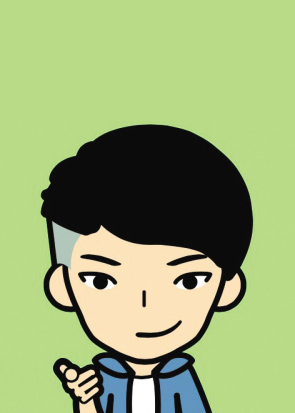
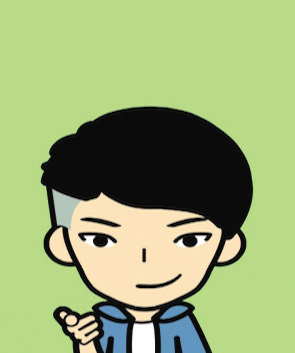
home

diff --git a/PositivePersons/Project/awesomeResume/free/free_resume.html b/PositivePersons/Project/awesomeResume/free/free_resume.html
@@ -17,19 +17,26 @@
         <!-- 可以通过调整base.css中的#base-info的width来使顶部居中，例如60% -->
         <div id="base-info">
           <!-- 头像 -->
-          <img id="avatar" alt="avatar" src="imgs/avatar.jpg"/>
+          <img id="avatar" alt="avatar" src="imgs/avatar.png"/>
           <!-- 其他基础信息 -->
           <div id="base-info-span">
-            <b id="name">杨勇</b>
+            <b id="name">朱亚男</b>
             <hr>
             <span>
               <!-- 可以从font-awesome网站(https://fontawesome.com/icons)中搜索所需图标，
               直接替换<i>标签class内内容即可 -->
+                
               <h5>
-                  <i class="fas fa-envelope"></i> contact@jobder.net | 
-                  <i class="fas fa-phone"></i> 133-5555-6666 | 政治面貌：群众</h5>
+                  求职意向: iOS 高级开发工程师
+              </h5>
               <h5>
-                  <i class="fab fa-github"></i> github.com/Windsooon | 求职意向: 爬虫工程师</h5>
+                  <i class="fas fa-envelope"></i> ynzhuw@gmail.com | 
+                  <i class="fas fa-phone"></i> 187-0162-9187
+              </h5>
+              <h5>
+                  <i class="fab fa-github"></i> <a href="https://github.com/YAANNZ" style="color:black">github.com/YAANNZ</a> | 
+                  <i class="fab fa-blogger"></i> <a href="http://zynlo.xyz" style="color:black">zynlo.xyz</a>
+              </h5>
             </span>
           </div> <!-- end base-info-span -->
         </div> <!-- end base-info -->
@@ -45,7 +52,7 @@
           </span>
         </div> <!-- end banner-div -->
         <!-- 个人简介可替换部分 -->
-        <p>两年 Python 爬虫系统开发经验，熟悉 <b>Scrapy框架</b>，作为主力工程师参与设计与开发过多个项目，负责系统核心模块的开发，自动化测试与部署。<b>熟悉 HTTP 协议、TCP/IP 协议，正则表达式，XPATH</b> 的用法，了解 <b>Redis，MySQL 数据库</b>与 Linux 系统的常见机制与原理。有优秀的学习能力和团队沟通能力，经常与团队进行技术分享，能与团队共同成长。</p>
+        <p>四年 iOS 开发经验，作为主力工程师参与设计并开发过多个项目，负责项目<b>架构设计、核心模块的开发、持续集成、自动化部署、App Store上架、Crash收集</b>等任务。浅显的理解<b>内存管理、runtime、多线程、HTTP、TCP/IP</b>的原理及在 iOS 开发中的使用。有<b>移动 OA、内容分享、移动 BI、视频直播</b>等类型产品的开发经验，有基于 <b>Cordova、AppCan</b>的混合开发经验。热爱开源，曾为开源框架 <b>MJExtension</b> 贡献过代码。有优秀的学习能力和团队沟通能力，经常与团队进行技术分享，能与团队共同成长。</p>
       </div> <!-- end summary -->
       <!-- 
           技能列表部分
@@ -59,16 +66,16 @@
         <!-- 技能列表可替换部分 &nbsp;用来控制格式-->
         <ul>
             <li>
-              <b>后端框架:</b> Scrapy, Flask &nbsp;&nbsp;
-              <b>前端框架:</b> Vue, React, jQuery
+              <b>熟练:</b> Objective-C, Swift &nbsp;&nbsp;&nbsp;&nbsp;
+              <b>熟悉:</b> Node.js, JavaScript/HTML/CSS, Python, Shell
             </li>
             <li>
-              <b>数据库:</b> Redis, MySQL &nbsp;&nbsp;
-              <b>工具:</b> Docker, Jenkins, Git
+              <b>框架:</b> Cordova, AppCan, Express, EJS &nbsp;&nbsp;&nbsp;&nbsp;
+              <b>数据库:</b> SQLite, MongoDB
             </li>
             <li>
-              <b>其他:</b> XPATH, AsyncIO  &nbsp;&nbsp;
-              <b>外语:</b> 大学英语四级，能流畅阅读英文文档
+              <b>工具:</b> Git, SVN  &nbsp;&nbsp;&nbsp;&nbsp;
+              <b>外语:</b> CET-4，能流畅阅读英文文档
             </li>
         </ul>
       </div> <!-- end skills -->
@@ -82,33 +89,66 @@
           </span>
         </div>
         <!-- 第一份工作的介绍 -->
-        <b>独角科技有限公司（旗下产品 EngineGo, Thankyou-opensource）</b>
-        <p>2014年6月-2016年6月 | 高级 Python 工程师</p>
+        <b>北京兴竹同伴信息技术股份有限公司</b>
+        <p>2015年12月-至今 | 高级 iOS 开发工程师</p>
         <ul>
-          <li>作为组长负责设计和开发<b>分布式网络爬虫系统</b>，优化爬虫策略和防屏蔽规则，提升网页抓取的效率和质量。</li>
-          <li>根据行业需求分析设计方案可行性，对项目代码进行测试优化，<b>协助持续集成与自动化部署</b>，提高系统可用性。</li>
-          <li>负责公司技术文档的编写以及维护，定期 review 团队的代码，与团队共同学习以及成长。</li>
+          <li>作为主程参与<b>项目需求讨论、开发规范制定、以及架构设计和核心模块</b>的开发。</li>
+          <li>负责解决项目开发难点，疑难 bug 处理，对项目代码进行规范优化，<b>持续集成与自动化部署</b>，提高测试和发布效率。</li>
+          <li>负责公司<b>技术开发文档的编写以及维护</b>，定期 review 团队的代码，与团队共同学习成长。</li>
         </ul>
-        <!-- 第一个项目的介绍，多个项目可以复制project-span区块-->
+        <!-- 第一个项目的介绍-->
         <span class="project-span">
-          <b>EngineGo 爬虫系统</b>
+          <b>同伴</b>
           <ul>
-            <li>与产品经理保持沟通，使用 <b>Scrapy框架</b> 对爬虫模块进行重构，提高 <b>200%爬虫速度 </b>并减少服务器 <b>20%CPU</b> 负载。改进爬虫策略，降低 <b>40%</b> 被屏蔽的请求数。</li>
-            <li>作为主要工程师设计以及开发<b>物业模块，活动模块，实现报名，即时通知</b>等 10 个功能。</li>
-            <li>使用 <b>Docker</b> 对项目进行拆分重新架构, 减少业务模块之间的资源耦合, 实现<b>持续集成与自动化部署</b>。</li>
+            <li>一款<b>移动 OA </b>产品，累计拥有过万用户量，基于 Cordova 的混合开发方式，主要有移动考勤、审批、工时、邮箱、即时通讯、微应用等模块。</li>
+            <li>使用 <b>MVC</b> 架构方式开发项目，同时以<b>自定义分类和自定义继承于NSObject的工具类</b>的方式来减轻 C 的压力，提高 <b>代码的可读性和规范性 </b>以便于扩展和维护。</li>
+            <li>作为主要工程师设计以及开发<b>移动考勤模块，企业创建管理模块，通讯录模块</b>等功能。</li>
+            <li>使用 <b>FMDB 设计数据持久化</b>方案，同时利用 <b>node.js、python、shell</b> 实现项目的<b>持续集成与自动化部署</b>，提高测试和发布效率。</li>
+          </ul> 
+        </span> <!-- end project-span -->
+        <!-- 第二个项目的介绍-->
+        <span class="project-span">
+          <b>工程管理</b>
+          <ul>
+            <li>一款中电基建部门下属全国各地<b>基建工程管理人员</b>使用的移动端产品，基于 Cordova 的混合开发方式。</li>
+            <li>参与项目需求讨论，对项目需求进行可行性调研，使用 <b>MVC</b> 的架构模式。</li>
+            <li>单独负责项目的开发，实现了基于 <b>CocoaHttpServer </b>的 App 内启动 HTTP 服务与其他设备局域网通信的功能。</li>
+            <li>基于 <b>NSURLSessionDataTask</b> 实现的文件下载，支持断点续传下载功能</li>
+            <li>基于 <b>AVFoundation.framework Photos.framework</b> 自定义相机，系统相册的创建，相册照片的添加、读取、移动、删除等操作功能。</li>
+            <li>基于 <b>UIGraphics</b> 类、<b>UIBezierPath</b>  类实现的照片涂鸦、裁剪和添加水印功能。</li>
           </ul> 
         </span> <!-- end project-span -->
         <!-- 第一份工作结束 -->
         <!-- 第二份工作开始 -->
-        <b>未来科技有限公司</b>
-        <p>2012年6月-2014年6月 | Python工程师</p>
+        <b>北京和美康信科技有限公司</b>
+        <p>2015年1月-2015年12月 | iOS 开发工程师</p>
         <ul>
-          <li>使用 Python 爬虫帮助公司进行电商数据的<b>数据采集，文本分析与文本标注。</b>并将就分析结果与开发人员讨论产品方向。
-          <li>带领 3人 团队完成后端系统的难点分析与架构设计工作，承担核心功能代码编写，开发与维护系统核心模块。使用 Selenium 等工具对产品进行多方面测试，保证代码的可靠，安全。</li>
+          <li>作为团队唯一 iOS 开发工程师，负责所有 iOS 产品的开发。</li>
+          <li>阅读 MSTR 英文文档，对客户的需求进行调研并实现。</li>
+          <li>负责公司各种项目的维护，同时编写技术开发文档。</li>
         </ul>
-        <!-- 第一个项目的介绍，多个项目可以复制project-span区块-->
+        <span class="project-span">
+          <b>中电 BI</b>
+          <ul>
+            <li>一款基于 <b>MSTR</b> 的 iPad 端移动 BI 产品，实现了单点登录功能，基于国富安平台的VPN通道实现的证书验证、VPN登录、外网与内网服务器的通讯等各种功能。</li>
+          </ul> 
+        </span> <!-- end project-span -->
         <!-- 第二份工作结束 -->
       </div> <!-- end jobs -->
+      <!-- 
+          志愿者工作部分
+      -->
+      <div id="volunteer">
+        <div class="banner-div">
+          <span class="banner-span"><i class="white-icon fab fa-slideshare"></i>&nbsp;开源项目</span>
+        </div>
+        <b>在 GitHub 开源的个人项目：</b>
+        <ul>
+          <li>Demo集合：<a href="https://github.com/YAANNZ/DiTing" style="color:black">DiTing</a></li>
+          <li>效率工具：<a href="https://github.com/YAANNZ/PositivePersonsNode" style="color:black">Now</a></li>
+          <li>Chrome 插件：<a href="https://github.com/YAANNZ/chromePlugin" style="color:black">ChromePlugin</a></li>
+        <ul>
+      </div> <!-- end education -->
       <!-- 
           教育经历部分
       -->
@@ -116,23 +156,11 @@
         <div class="banner-div">
           <span class="banner-span"><i class="white-icon fas fa-graduation-cap"></i>&nbsp;教育经历</span>
         </div>
-      <b>中山大学 | 计算机科学 | 2013年- 2017年</b>
+      <b>河南理工大学 | 电气工程及其自动化 | 2008年 - 2012年</b>
       <ul>
-          <li>操作系统(85分 / 专业排名18/100)，数据结构(90分 / 专业排名10/100)</li>
-          <li>2015-2016学年获得美国大学生数学建模竞赛一等奖</li>
+          <li>计算机相关专业</li>
+          <li>学习过 C 语言、单片机原理、汇编语言、PLC 等课程</li>
       <ul>
-      </div> <!-- end education -->
-      <!-- 
-          志愿者工作部分
-      -->
-      <div id="volunteer">
-        <div class="banner-div">
-          <span class="banner-span"><i class="white-icon fas fa-ribbon"></i>&nbsp;志愿工作</span>
-        </div>
-        <ul>
-          <li>协助组织翻译 Flask, Requests 第一版本文档，翻译多篇技术文章。</li>
-          <li>Github 上的开源项目 Cherry 获得 200个 Star。</li>
-        <ul>
       </div> <!-- end education -->
     </div> <!-- end resume-framework -->
   </body>

diff --git a/PositivePersons/Project/Home/Controller/PPSHomeViewController.m b/PositivePersons/Project/Home/Controller/PPSHomeViewController.m
@@ -62,6 +62,25 @@
     
     // 接收 viewModel 对数据处理后的反馈，调整 UI
     [[NSNotificationCenter defaultCenter] addObserver:self selector:@selector(reloadTableView:) name:PPSHomeTableViewNeedReload object:self.homeTableViewModel];
+    
+//    dispatch_queue_t concurrent = dispatch_queue_create("test", DISPATCH_QUEUE_CONCURRENT);
+//    dispatch_async(concurrent, ^{
+//        NSLog(@"0000");
+//        dispatch_async(concurrent, ^{
+//            NSLog(@"1111");
+//        });
+//        NSLog(@"2222");
+//    });
+//    NSLog(@"3333");
+    
+//    dispatch_queue_t concurrent = dispatch_queue_create("tests", DISPATCH_QUEUE_CONCURRENT);
+//    dispatch_async(concurrent, ^{
+//        NSLog(@"%@", [NSThread currentThread]);
+//        dispatch_sync(concurrent, ^{
+//            NSLog(@"%@", [NSThread currentThread]);
+//        });
+//    });
+    
 }
 
 - (void)reloadTableView:(NSNotification *)notification

diff --git a/PositivePersons/Project/Options/Controller/PPSOptionsViewController.m b/PositivePersons/Project/Options/Controller/PPSOptionsViewController.m
@@ -51,7 +51,7 @@
     self.tableView.dataSource = self.tableViewDataSource;
     
     // temp
-    self.tableViewDataSource.dataArray = [PPSOptionModel mj_objectArrayWithKeyValuesArray:@[@{@"contentStr": @"时间正在一分一秒的流逝啊"},@{@"contentStr": @"过去的永不再回来"}, @{@"contentStr": @"你感到遗憾吗"}, @{@"contentStr": @"而此刻也正在变成过去"}]];
+    self.tableViewDataSource.dataArray = [PPSOptionModel mj_objectArrayWithKeyValuesArray:@[@{@"contentStr": @"时间正在一分一秒的流逝"},@{@"contentStr": @"过去的永不再回来"}, @{@"contentStr": @"你感到遗憾吗"}, @{@"contentStr": @"而此刻也正在变成过去"}]];
     
     //    YiRefreshHeader  头部刷新按钮的使用
 //    self.refreshHeader = [[PPSRefreshHeader alloc] init];

diff --git a/PositivePersons/Project/Home/TableViewProtocol/PPSHomeTableViewDelegate.m b/PositivePersons/Project/Home/TableViewProtocol/PPSHomeTableViewDelegate.m
@@ -10,10 +10,12 @@
 
 @implementation PPSHomeTableViewDelegate
 
-//- (UIView *)tableView:(UITableView *)tableView viewForHeaderInSection:(NSInteger)section
-//{
-//    return [UIView new];
-//}
+- (UIView *)tableView:(UITableView *)tableView viewForHeaderInSection:(NSInteger)section
+{
+    UILabel *headerLabel = [[UILabel alloc] init];
+    headerLabel.text = [self.dataArray[section] objectForKey:PPSHomeTasksTitleKey];
+    return headerLabel;
+}
 
 - (CGFloat)tableView:(UITableView *)tableView heightForRowAtIndexPath:(NSIndexPath *)indexPath
 {
@@ -22,7 +24,7 @@
 
 - (CGFloat)tableView:(UITableView *)tableView heightForHeaderInSection:(NSInteger)section
 {
-    if (self.dataArray.count == 0)
+    if (self.dataArray.count == 0 && section)
     {
         return 0;
     }

diff --git a/PositivePersons/Project/Analysis/Controller/PPSAnalysisViewController.m b/PositivePersons/Project/Analysis/Controller/PPSAnalysisViewController.m
@@ -75,7 +75,7 @@
         trendView.dataArray = array;
     }];
     
-    UIWebView *webView = [[UIWebView alloc] initWithFrame:self.view.bounds];
+    UIWebView *webView = [[UIWebView alloc] initWithFrame:CGRectMake(0, 64, MAINSCREEN_WIDTH, MAINSCREEN_HEIGHT - 64 - 49)];
     [self.view addSubview:webView];
     webView.scalesPageToFit = YES;
     NSURL *url = [NSURL fileURLWithPath:[[NSBundle mainBundle] pathForResource:@"free_resume" ofType:@"html" inDirectory:@"awesomeResume/free"]];
